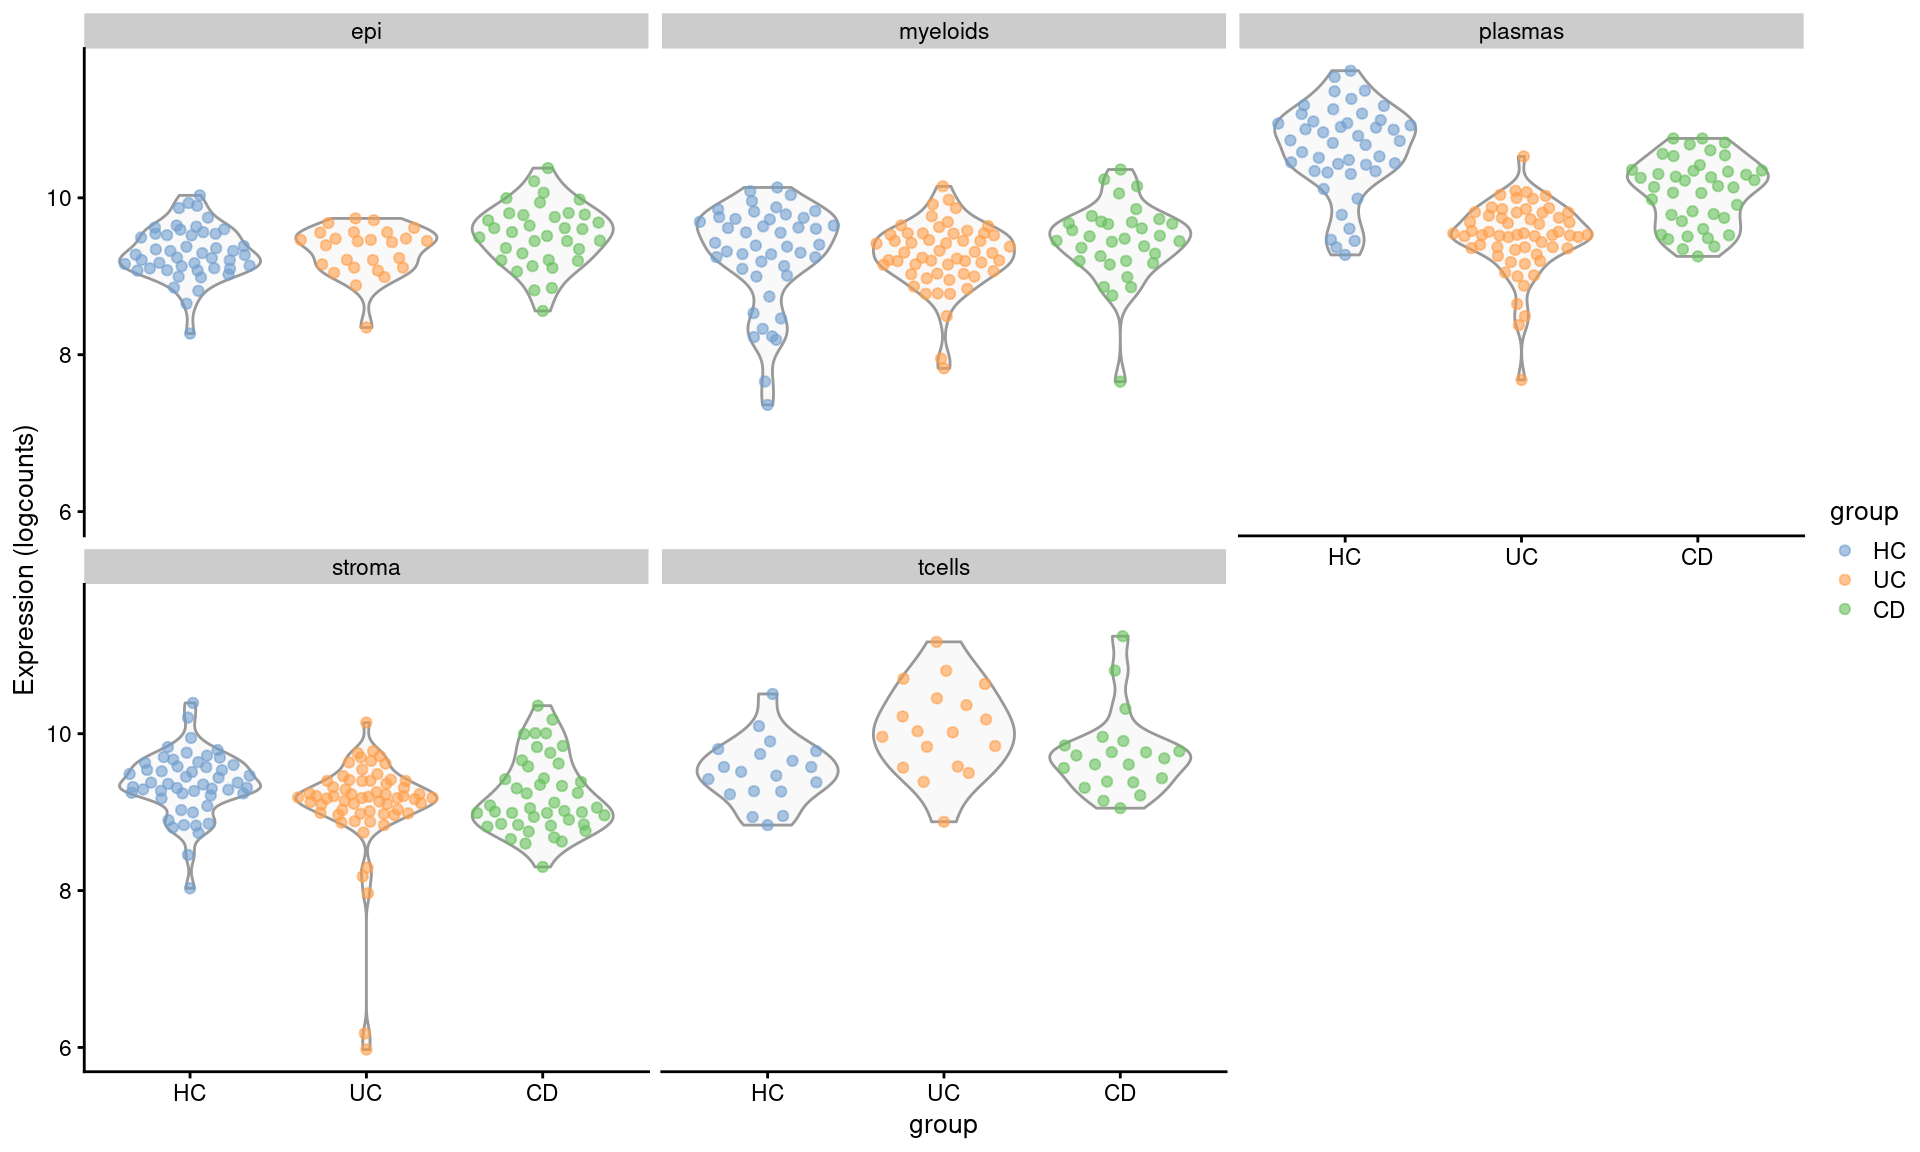
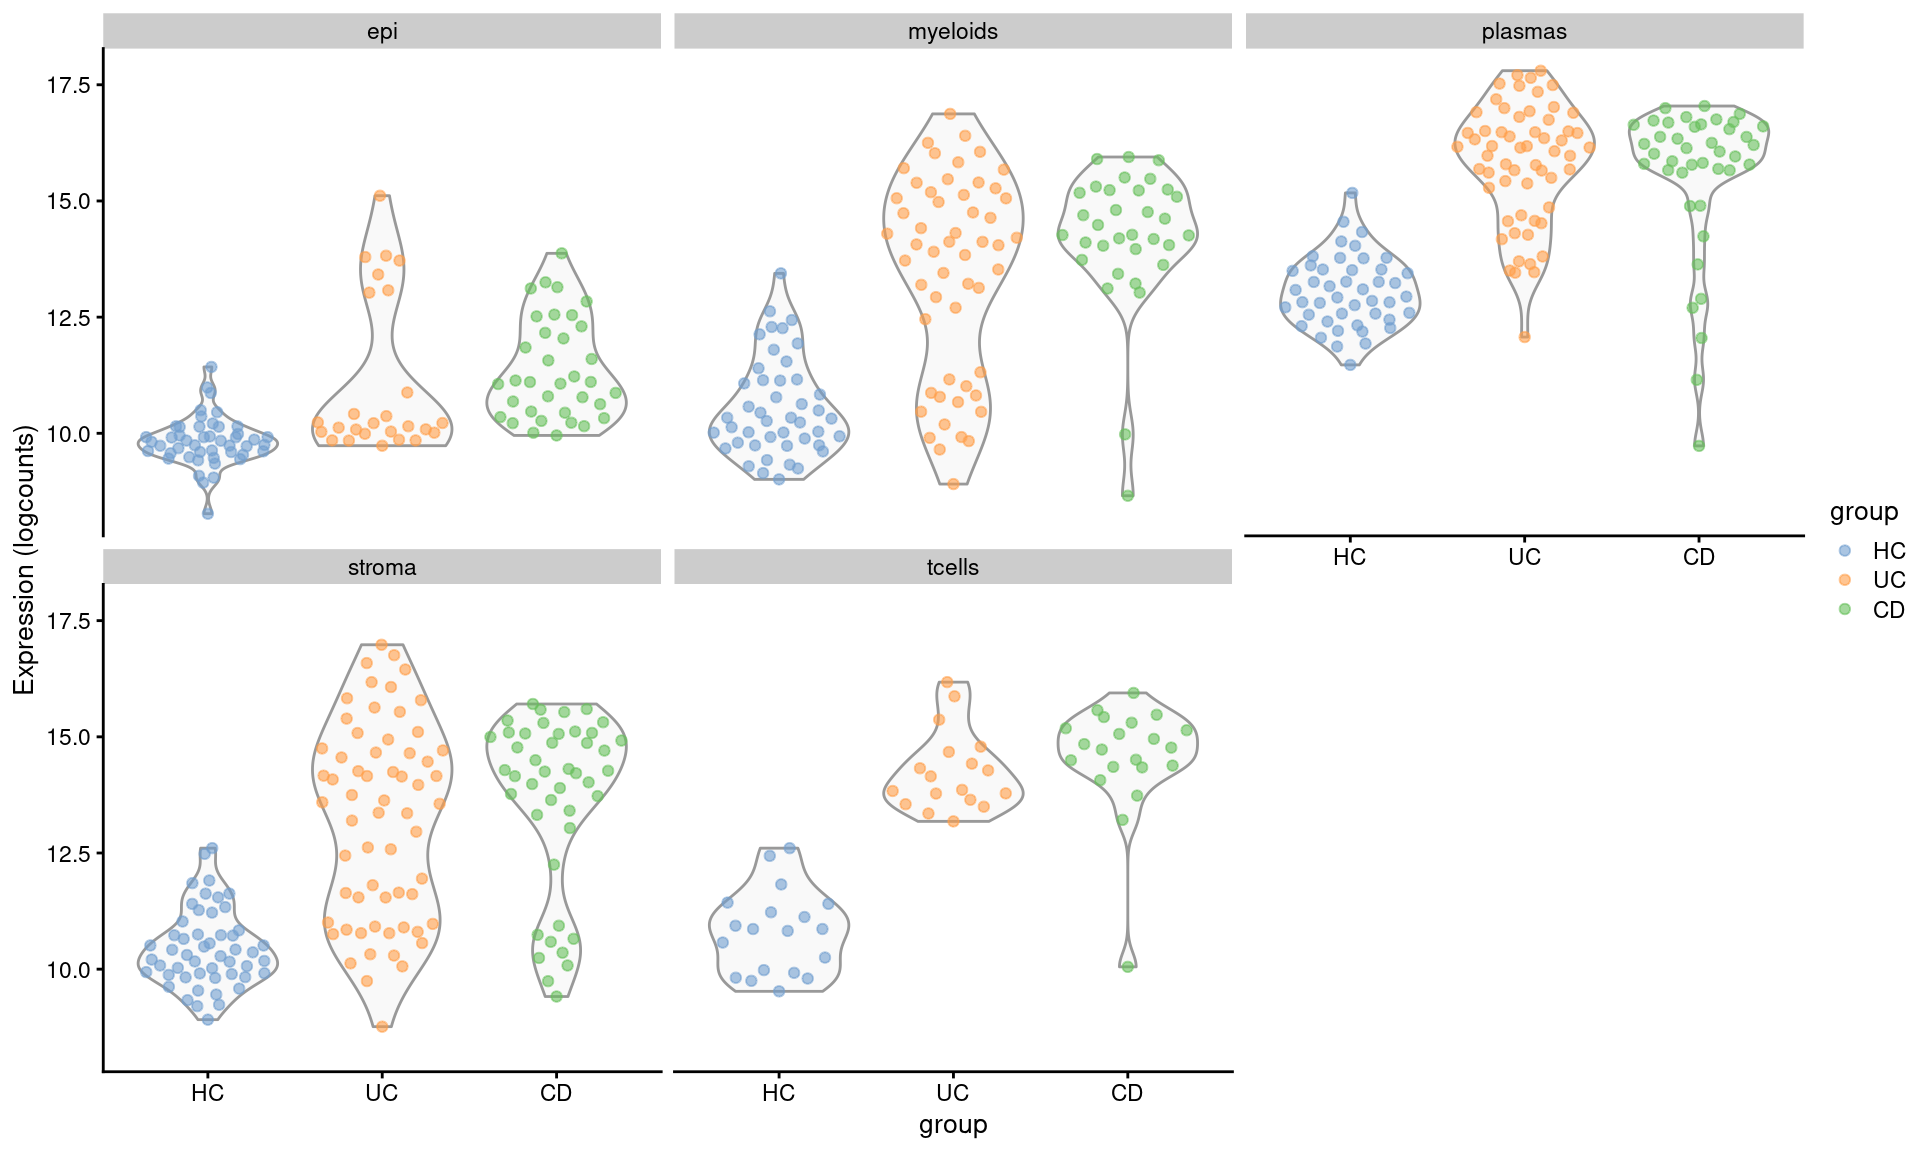
Build site.

diff --git a/docs/e_DEPseudobulk_insitu_sfe.html b/docs/e_DEPseudobulk_insitu_sfe.html
@@ -437,7 +437,7 @@ Michaud, and Scott 2005)</span>.</p>
 expression in this kind of data - including those that make use of
 individual cells; see review <span class="citation">(Soneson and
 Robinson 2018)</span>.</p>
-<p><img src="assets/insitu_spatial_pseudobulk_de.png" /></p>
+<p><img src="assets/insitu_spatial_pseudobulk_de_fovs.png" /></p>
 <p>This test requires:</p>
 <ul>
 <li>Biological replicates for each group</li>
@@ -495,21 +495,36 @@ sfe_01_loaded &lt;- file.path(data_dir, &quot;GSE234713_CosMx_IBD_sfe_01_loaded&
 #se_pseudobulk_file &lt;- file.path(data_dir, &quot;GSE234713_CosMx_IBD_pseudobulk_se.RDS&quot;)
 se_pseudobulk_file &lt;- file.path(data_dir, &quot;GSE234713_CosMx_IBD_pseudobulk_fov_se.RDS&quot;)</code></pre>
 <pre class="r"><code>sfe &lt;- readObject(sfe_01_loaded)</code></pre>
-<p>SUBSET FOR TESTING</p>
-<pre class="r"><code>#sfe &lt;- sfe[,colData(sfe)$group %in% c(&#39;HC&#39;,&#39;UC&#39;)]
-#sfe &lt;- sfe[,sample(1:ncol(sfe), 10000)]</code></pre>
 </div>
 <div id="experimental-design" class="section level2">
 <h2>Experimental design</h2>
 <!-- Move this to own page? --->
 <p>There are three individuals per condition, one tissue sample from
 each individual. 9 slides in total. Each tissue sample has multiple FOVs
-captured; these are our pseudoreplicates. Each ‘sample’ is listed
-below.</p>
+captured.</p>
 <p>In the cosMX output an ‘fov’ refers to the rectangular regions on the
 slide that are measured; there are multiple fovs per sample, and in this
-experiment, only one sample per slide. This document uses the
-latter.</p>
+experiment, only one sample per slide.</p>
+<div id="level-of-pseudobulk-pooling" class="section level3">
+<h3>Level of pseudobulk pooling</h3>
+<p>We will be pooling cells of the same type from the sample into
+‘pseudobulk’ samples. We could do this at two levels</p>
+<ol style="list-style-type: decimal">
+<li>Individual fov on tissue : Each fov is its own ‘pseudoreplicate’,
+and there are multiple per tissue sample.</li>
+<li>Entire tissue (or tissue region) : Pool cells from all fovs within a
+tissue. This is the simplest option, and is outlined here: (LINK
+EXAMPLE)</li>
+</ol>
+<p>If there are no explict fovs on the data (like Xenium), option 2 is
+best. And likewise, if the fovs are tiled across a large area of the
+sample, option 2 may be more sensible (conceptually, fov-fov variation
+would be averaged out). Option 1 may be considered if there are only a
+handful of disconnected fovs on the tissue, and it is desireable to
+model the variation between them.</p>
+<p>Arguably, option 2 is the better option for this data (see example
+(LINK EXAMPLE)) - since largely the samples but this example will
+demonstrate option 1 - psedudo replicates.</p>
 <pre class="r"><code>sample_table &lt;- select(as_tibble(colData(sfe)), condition, individual_code, fov_name) %&gt;%
   unique() %&gt;% 
   group_by(condition, individual_code) %&gt;% 
@@ -518,6 +533,19 @@ latter.</p>
 DT::datatable(sample_table)</code></pre>
 <div class="datatables html-widget html-fill-item" id="htmlwidget-8839f08f82529a5247be" style="width:100%;height:auto;"></div>
 <script type="application/json" data-for="htmlwidget-8839f08f82529a5247be">{"x":{"filter":"none","vertical":false,"data":[["1","2","3","4","5","6","7","8","9"],["Healthy controls","Healthy controls","Healthy controls","Ulcerative colitis","Ulcerative colitis","Ulcerative colitis","Crohn's disease","Crohn's disease","Crohn's disease"],["HC_a","HC_b","HC_c","UC_a","UC_b","UC_c","CD_a","CD_b","CD_c"],[19,20,16,19,22,21,19,18,16],["HC_a_001, HC_a_010, HC_a_011, HC_a_012, HC_a_013, HC_a_014, HC_a_015, HC_a_016, HC_a_018, HC_a_019, HC_a_002, HC_a_020, HC_a_004, HC_a_005, HC_a_006, HC_a_007, HC_a_008, HC_a_009, HC_a_003","HC_b_001, HC_b_010, HC_b_011, HC_b_012, HC_b_013, HC_b_014, HC_b_015, HC_b_016, HC_b_002, HC_b_003, HC_b_004, HC_b_005, HC_b_006, HC_b_007, HC_b_008, HC_b_009, HC_b_017, HC_b_018, HC_b_019, HC_b_020","HC_c_001, HC_c_011, HC_c_013, HC_c_014, HC_c_002, HC_c_003, HC_c_004, HC_c_006, HC_c_007, HC_c_008, HC_c_009, HC_c_005, HC_c_010, HC_c_015, HC_c_016, HC_c_012","UC_a_001, UC_a_010, UC_a_012, UC_a_013, UC_a_014, UC_a_015, UC_a_016, UC_a_017, UC_a_018, UC_a_019, UC_a_002, UC_a_020, UC_a_021, UC_a_022, UC_a_005, UC_a_007, UC_a_008, UC_a_009, UC_a_006","UC_b_001, UC_b_011, UC_b_012, UC_b_014, UC_b_015, UC_b_016, UC_b_017, UC_b_018, UC_b_002, UC_b_020, UC_b_021, UC_b_022, UC_b_023, UC_b_024, UC_b_003, UC_b_004, UC_b_005, UC_b_006, UC_b_007, UC_b_008, UC_b_009, UC_b_010","UC_c_001, UC_c_010, UC_c_011, UC_c_012, UC_c_013, UC_c_014, UC_c_015, UC_c_016, UC_c_017, UC_c_018, UC_c_019, UC_c_002, UC_c_020, UC_c_021, UC_c_003, UC_c_006, UC_c_007, UC_c_008, UC_c_009, UC_c_004, UC_c_005","CD_a_001, CD_a_010, CD_a_012, CD_a_014, CD_a_015, CD_a_017, CD_a_018, CD_a_019, CD_a_002, CD_a_004, CD_a_005, CD_a_006, CD_a_007, CD_a_008, CD_a_009, CD_a_011, CD_a_013, CD_a_016, CD_a_003","CD_b_010, CD_b_011, CD_b_012, CD_b_013, CD_b_014, CD_b_015, CD_b_016, CD_b_017, CD_b_018, CD_b_019, CD_b_002, CD_b_003, CD_b_004, CD_b_005, CD_b_006, CD_b_007, CD_b_008, CD_b_009","CD_c_001, CD_c_011, CD_c_012, CD_c_013, CD_c_014, CD_c_015, CD_c_017, CD_c_002, CD_c_003, CD_c_004, CD_c_005, CD_c_006, CD_c_007, CD_c_008, CD_c_009, CD_c_010"]],"container":"<table class=\"display\">\n  <thead>\n    <tr>\n      <th> <\/th>\n      <th>condition<\/th>\n      <th>individual_code<\/th>\n      <th>n_fovs<\/th>\n      <th>item<\/th>\n    <\/tr>\n  <\/thead>\n<\/table>","options":{"columnDefs":[{"className":"dt-right","targets":3},{"orderable":false,"targets":0},{"name":" ","targets":0},{"name":"condition","targets":1},{"name":"individual_code","targets":2},{"name":"n_fovs","targets":3},{"name":"item","targets":4}],"order":[],"autoWidth":false,"orderClasses":false}},"evals":[],"jsHooks":[]}</script>
+<pre class="r"><code>plot_one &lt;- function(sample) {
+  p &lt;- plotSpatialFeature(sfe[,sfe$tissue_sample == sample], &quot;celltype_subset&quot;,colGeometryName = &quot;cellSeg&quot;) + 
+    theme(legend.title=element_blank()) +
+    ggtitle(sample) 
+  
+  return(p)
+}
+samples &lt;- levels(sfe$tissue_sample)
+plots &lt;- lapply(FUN=plot_one, X=samples)
+p.all &lt;- wrap_plots(plots, ncol=3)
+plot(p.all)</code></pre>
+<p><img src="figure/e_DEPseudobulk_insitu_sfe.Rmd/unnamed-chunk-5-1.png" width="672" style="display: block; margin: auto;" /></p>
+</div>
 </div>
 <div id="filter-cells-for-de" class="section level2">
 <h2>Filter cells for de</h2>
@@ -545,38 +573,56 @@ ggplot(colData(sfe), aes(x=total_count)) +
   theme_bw()+
   ggtitle(&quot;How many reads per cell?&quot;)</code></pre>
 <p><img src="figure/e_DEPseudobulk_insitu_sfe.Rmd/unnamed-chunk-6-1.png" width="672" style="display: block; margin: auto;" /></p>
+<p>
+<button type="button" class="btn btn-default btn-xs btn-workflowr btn-workflowr-fig" data-toggle="collapse" data-target="#fig-unnamed-chunk-6-1">
+Past versions of unnamed-chunk-6-1.png
+</button>
+</p>
+<div id="fig-unnamed-chunk-6-1" class="collapse">
+<div class="table-responsive">
+<table class="table table-condensed table-hover">
+<thead>
+<tr>
+<th>
+Version
+</th>
+<th>
+Author
+</th>
+<th>
+Date
+</th>
+</tr>
+</thead>
+<tbody>
+<tr>
+<td>
+<a href="https://github.com/swbioinf/spatialsnippets/blob/e36430f27e958945e41413b8dc33422d89359464/docs/figure/e_DEPseudobulk_insitu_sfe.Rmd/unnamed-chunk-6-1.png" target="_blank">e36430f</a>
+</td>
+<td>
+swbioinf
+</td>
+<td>
+2025-07-15
+</td>
+</tr>
+</tbody>
+</table>
+</div>
+</div>
 <pre class="r"><code>sfe &lt;- sfe[,sfe$total_count&gt;= min_reads_per_cell]</code></pre>
 </div>
 </div>
-<div id="deciding-on-pseudobulk-grouping" class="section level2">
-<h2>Deciding on pseudobulk grouping</h2>
-<!-- # ```{r} -->
-<!-- # plotSpatialFeature(sfe[,sfe$tissue_sample == "HC_a"], "celltype_subset",colGeometryName = "cellSeg") +  -->
-<!-- #   theme(legend.title=element_blank()) + -->
-<!-- #   ggtitle("HC_a") -->
-<!-- # ``` -->
-<pre class="r"><code>plot_one &lt;- function(sample) {
-  p &lt;- plotSpatialFeature(sfe[,sfe$tissue_sample == sample], &quot;celltype_subset&quot;,colGeometryName = &quot;cellSeg&quot;) + 
-    theme(legend.title=element_blank()) +
-    ggtitle(sample) 
-  
-  return(p)
-}
-samples &lt;- levels(sfe$tissue_sample)
-plots &lt;- lapply(FUN=plot_one, X=samples)
-p.all &lt;- wrap_plots(plots, ncol=3)
-plot(p.all)</code></pre>
-<p><img src="figure/e_DEPseudobulk_insitu_sfe.Rmd/unnamed-chunk-7-1.png" width="672" style="display: block; margin: auto;" /></p>
-</div>
 <div id="calculate-pseudobulk" class="section level2">
 <h2>Calculate pseudobulk</h2>
-<p>Explain why pseudobulk&lt;&lt;&lt;&lt;&lt;</p>
 <p>We need to define the grouping that will make one pseudobulk sample
 for analysis. In this experiment, we can consider all FOVs within a
 tissue sample as somewhat equivalent. Therefore that is all cells of a
 particular celltype within an FOV region.</p>
 <p>If we only had one fov per sample, <em>celltype + sample</em> would
-be directly equivalent.</p>
+be directly equivalent. This is exactly what you’d do with
+pseudoreplicates (see section <em>Level of pseudobulk pooling</em>) -
+and it is a much simpler methoed (LINK EXAMPLE)</p>
 <p>If we have tiled fovs across an entire tissue sample <em>celltype +
 sample</em> woudl work</p>
 <p>If we had a tiled fovs across a tissue sample with distinct regions
@@ -584,7 +630,6 @@ it would be necessary to group them by <em>subregion fov +
 celltype</em>. Alternatively pool the entire sample if each one is
 equivalent - it depends on where transcriptional differences are
 expected.</p>
-<p>&lt;&lt;&lt;&lt;&lt;</p>
 <p>Now use the <em>PseudobulkExpression()</em> function to sum up each
 gene’s gene expression across each <em>fov_cluster</em>.</p>
 <p>This will build a SummarisedExperiment object at the ‘fov_cluster’
@@ -622,8 +667,8 @@ ACKR4           5                0               1              1
 ACTA2           1                0               0              0
 ACTG2           3                0               0              0</code></pre>
 </div>
-<div id="cell-filtering-and-counting-new" class="section level2">
-<h2>Cell filtering and counting (NEW)</h2>
+<div id="cell-filtering-and-counting" class="section level2">
+<h2>Cell filtering and counting</h2>
 <p>Once the pseudobulk replicate grouping is decided, we need to check
 there will be enough cells to perform our analyses. Note there are
 several levels of filtering here!</p>
@@ -659,7 +704,7 @@ ggplot(colData(se.pdb), aes(x=ncells, col=celltype_subset)) +
   scale_x_log10() +
   theme_bw() +
   ggtitle(&quot;How many cells per fov-cluster?&quot;)</code></pre>
-<p><img src="figure/e_DEPseudobulk_insitu_sfe.Rmd/unnamed-chunk-12-1.png" width="672" style="display: block; margin: auto;" /></p>
+<p><img src="figure/e_DEPseudobulk_insitu_sfe.Rmd/unnamed-chunk-11-1.png" width="672" style="display: block; margin: auto;" /></p>
 <p>Note there are much fewer t-cells overall, but given that we have a
 high number of samples, there should still be enough to include. Its
 typical that some of the less common cell types are difficult or
@@ -672,8 +717,8 @@ threshold of 20 in this instance.</p>
 ncol(se.pdb)</code></pre>
 <pre><code>[1] 600</code></pre>
 </div>
-<div id="samples-per-contrast." class="section level3">
-<h3>Samples per contrast.</h3>
+<div id="samples-per-contrast" class="section level3">
+<h3>Samples per contrast</h3>
 <p>Ignoring pseodureplicate fovs from a single sample, how many
 bioloical samples are represented in our filtered table?</p>
 <p>In this experiment, there are enough samples to run the contrasts for
@@ -761,21 +806,24 @@ it is applied to bulk RNAseq data.</p>
 <p>If instead we didn’t have multiple fovs per replicate, can skip
 blocking or use of duplicateCorrelation(). That is more typical of a
 typical of a bulk rnaseq or single cell RNAseq pseuobulk analysis.</p>
-<p>Some example models: * <strong>~0 + group, (no blocking or duplicate
-correlation)</strong> : If there was only one pseudoreplicate per
-individual. Either from a single fov, or from pooling fovs tile across a
-sample. * <strong>~0 + group, (blocked on individual with using
-duplicate Correlation)</strong> : Used here, takes into account
-pseodureplicate fovs from the same samples. * <strong>~0 + group +
-individual (no blocking or duplicate correlation)</strong> : If this was
-a treatment / time point experiment with paired samples from
-individuals. But only one pseodureplicate per individual. If there were
-multiple fovs per tissue sample, you could add blocking and duplicate
-correlation on tissue ID. * <strong>~0 + group + celltype</strong> (with
-or without blocking + duplicate correlation) : Instead of subsetting to
-celltype, includes cell type in the model. This pulls more data into the
-statistics, but makes building the contrasts challenging! Not covered
-here.</p>
+<p>Some example models:</p>
+<ul>
+<li><strong>~0 + group, (no blocking or duplicate correlation)</strong>
+: If there was only one pseudoreplicate per individual. Either from a
+single fov, or from pooling fovs tile across a sample.</li>
+<li><strong>~0 + group, (blocked on individual with using duplicate
+Correlation)</strong> : Used here, takes into account pseodureplicate
+fovs from the same samples.</li>
+<li><strong>~0 + group + individual (no blocking or duplicate
+correlation)</strong> : If this was a treatment / time point experiment
+with paired samples from individuals. But only one pseodureplicate per
+individual. If there were multiple fovs per tissue sample, you could add
+blocking and duplicate correlation on tissue ID.</li>
+<li><strong>~0 + group + celltype</strong> (with or without blocking +
+duplicate correlation) : Instead of subsetting to celltype, includes
+cell type in the model. This pulls more data into the statistics, but
+makes building the contrasts challenging! Not covered here.</li>
+</ul>
 </div>
 <div id="about-filtering" class="section level3">
 <h3>About Filtering</h3>
@@ -802,17 +850,13 @@ de_result_list &lt;- list()
 
 ## Cycle through each celltype
 for (the_celltype in levels(se.pdb$celltype_subset)) {
-  
-  print(the_celltype)
-  
+
   # Subset pseudobulk object to one celltype
   se.pdb.this &lt;- se.pdb[,se.pdb$celltype_subset == the_celltype]
   
   # And pull out the annotation and counts
   anno_table.this   &lt;- as.tibble(colData(se.pdb.this))
   count_matrix.this &lt;- counts(se.pdb.this)
-
-  
 
   ## Check for sufficient replicates ##
   # To do any calculations, we need at least 2 pseudobulk groups per contrast.
@@ -828,8 +872,6 @@ for (the_celltype in levels(se.pdb$celltype_subset)) {
     unique()    %&gt;% # Don&#39;t care how many (passed) fovs there were on the tissue
     pull(group) %&gt;% # pull out group column, one entry per tissue sample
     table() # count how many
-  print(biosample_per_group)
-  
 
   # Are there enough Biological smples to consider the contrast?
   min_biosample_per_group &lt;- 2
@@ -900,28 +942,9 @@ for (the_celltype in levels(se.pdb$celltype_subset)) {
     
   }
 
-}</code></pre>
-<pre><code>[1] &quot;epi&quot;</code></pre>
-<pre><code>.
-HC UC CD 
- 3  3  3 
-[1] &quot;myeloids&quot;
-.
-HC UC CD 
- 3  3  3 
-[1] &quot;plasmas&quot;
-.
-HC UC CD 
- 3  3  3 
-[1] &quot;stroma&quot;
-.
-HC UC CD 
- 3  3  3 
-[1] &quot;tcells&quot;</code></pre>
-<pre><code>.
-HC UC CD 
- 2  2  3 </code></pre>
-<pre class="r"><code># Join together results for all celltypes, and pull out those with a singificant adjusted p-value
+}
+  
+# Join together results for all celltypes, and pull out those with a singificant adjusted p-value
 de_results_all &lt;- bind_rows(de_result_list)
 de_results_sig &lt;- filter(de_results_all, adj.P.Val &lt; 0.01)</code></pre>
 <p>Table of significant results.</p>
@@ -961,7 +984,7 @@ p2 &lt;- make_ma_style_plot(res_table = filter(de_results_all, contrast == &quot
 p3 &lt;- make_ma_style_plot(res_table = filter(de_results_all, contrast == &quot;UCvHC&quot;, celltype==&quot;stroma&quot;)) + ggtitle(&quot;UC vs HC - stroma&quot;)
 
 p1 + p2 + p3</code></pre>
-<p><img src="figure/e_DEPseudobulk_insitu_sfe.Rmd/unnamed-chunk-19-1.png" width="1152" style="display: block; margin: auto;" /></p>
+<p><img src="figure/e_DEPseudobulk_insitu_sfe.Rmd/unnamed-chunk-18-1.png" width="1152" style="display: block; margin: auto;" /></p>
 </div>
 <div id="check-some-examples" class="section level2">
 <h2>Check some examples</h2>
@@ -983,13 +1006,50 @@ assay(se.pdb, &quot;logcounts&quot;) &lt;- log2(norm_counts)</code></pre>
 <pre class="r"><code>plotExpression(se.pdb, &quot;TNFRSF18&quot;, x=&quot;group&quot;, colour_by = &quot;group&quot;,
                other_fields = &quot;celltype_subset&quot;) + 
  facet_wrap(~celltype_subset)</code></pre>
-<p><img src="figure/e_DEPseudobulk_insitu_sfe.Rmd/unnamed-chunk-21-1.png" width="960" style="display: block; margin: auto;" /></p>
+<p><img src="figure/e_DEPseudobulk_insitu_sfe.Rmd/unnamed-chunk-20-1.png" width="960" style="display: block; margin: auto;" /></p>
 <p>Compared with IGHG1, which was flagged at differentially expressed
 across multiple cell types.</p>
 <pre class="r"><code>plotExpression(se.pdb, &quot;IGHG1&quot;, x=&quot;group&quot;, colour_by = &quot;group&quot;,
                other_fields = &quot;celltype_subset&quot;) + 
  facet_wrap(~celltype_subset)</code></pre>
-<p><img src="figure/e_DEPseudobulk_insitu_sfe.Rmd/unnamed-chunk-22-1.png" width="960" style="display: block; margin: auto;" /></p>
+<p><img src="figure/e_DEPseudobulk_insitu_sfe.Rmd/unnamed-chunk-21-1.png" width="960" style="display: block; margin: auto;" /></p>
+<p>
+<button type="button" class="btn btn-default btn-xs btn-workflowr btn-workflowr-fig" data-toggle="collapse" data-target="#fig-unnamed-chunk-21-1">
+Past versions of unnamed-chunk-21-1.png
+</button>
+</p>
+<div id="fig-unnamed-chunk-21-1" class="collapse">
+<div class="table-responsive">
+<table class="table table-condensed table-hover">
+<thead>
+<tr>
+<th>
+Version
+</th>
+<th>
+Author
+</th>
+<th>
+Date
+</th>
+</tr>
+</thead>
+<tbody>
+<tr>
+<td>
+<a href="https://github.com/swbioinf/spatialsnippets/blob/e36430f27e958945e41413b8dc33422d89359464/docs/figure/e_DEPseudobulk_insitu_sfe.Rmd/unnamed-chunk-21-1.png" target="_blank">e36430f</a>
+</td>
+<td>
+swbioinf
+</td>
+<td>
+2025-07-15
+</td>
+</tr>
+</tbody>
+</table>
+</div>
+</div>
 </div>
 </div>
 <div id="code-snippet" class="section level1">
